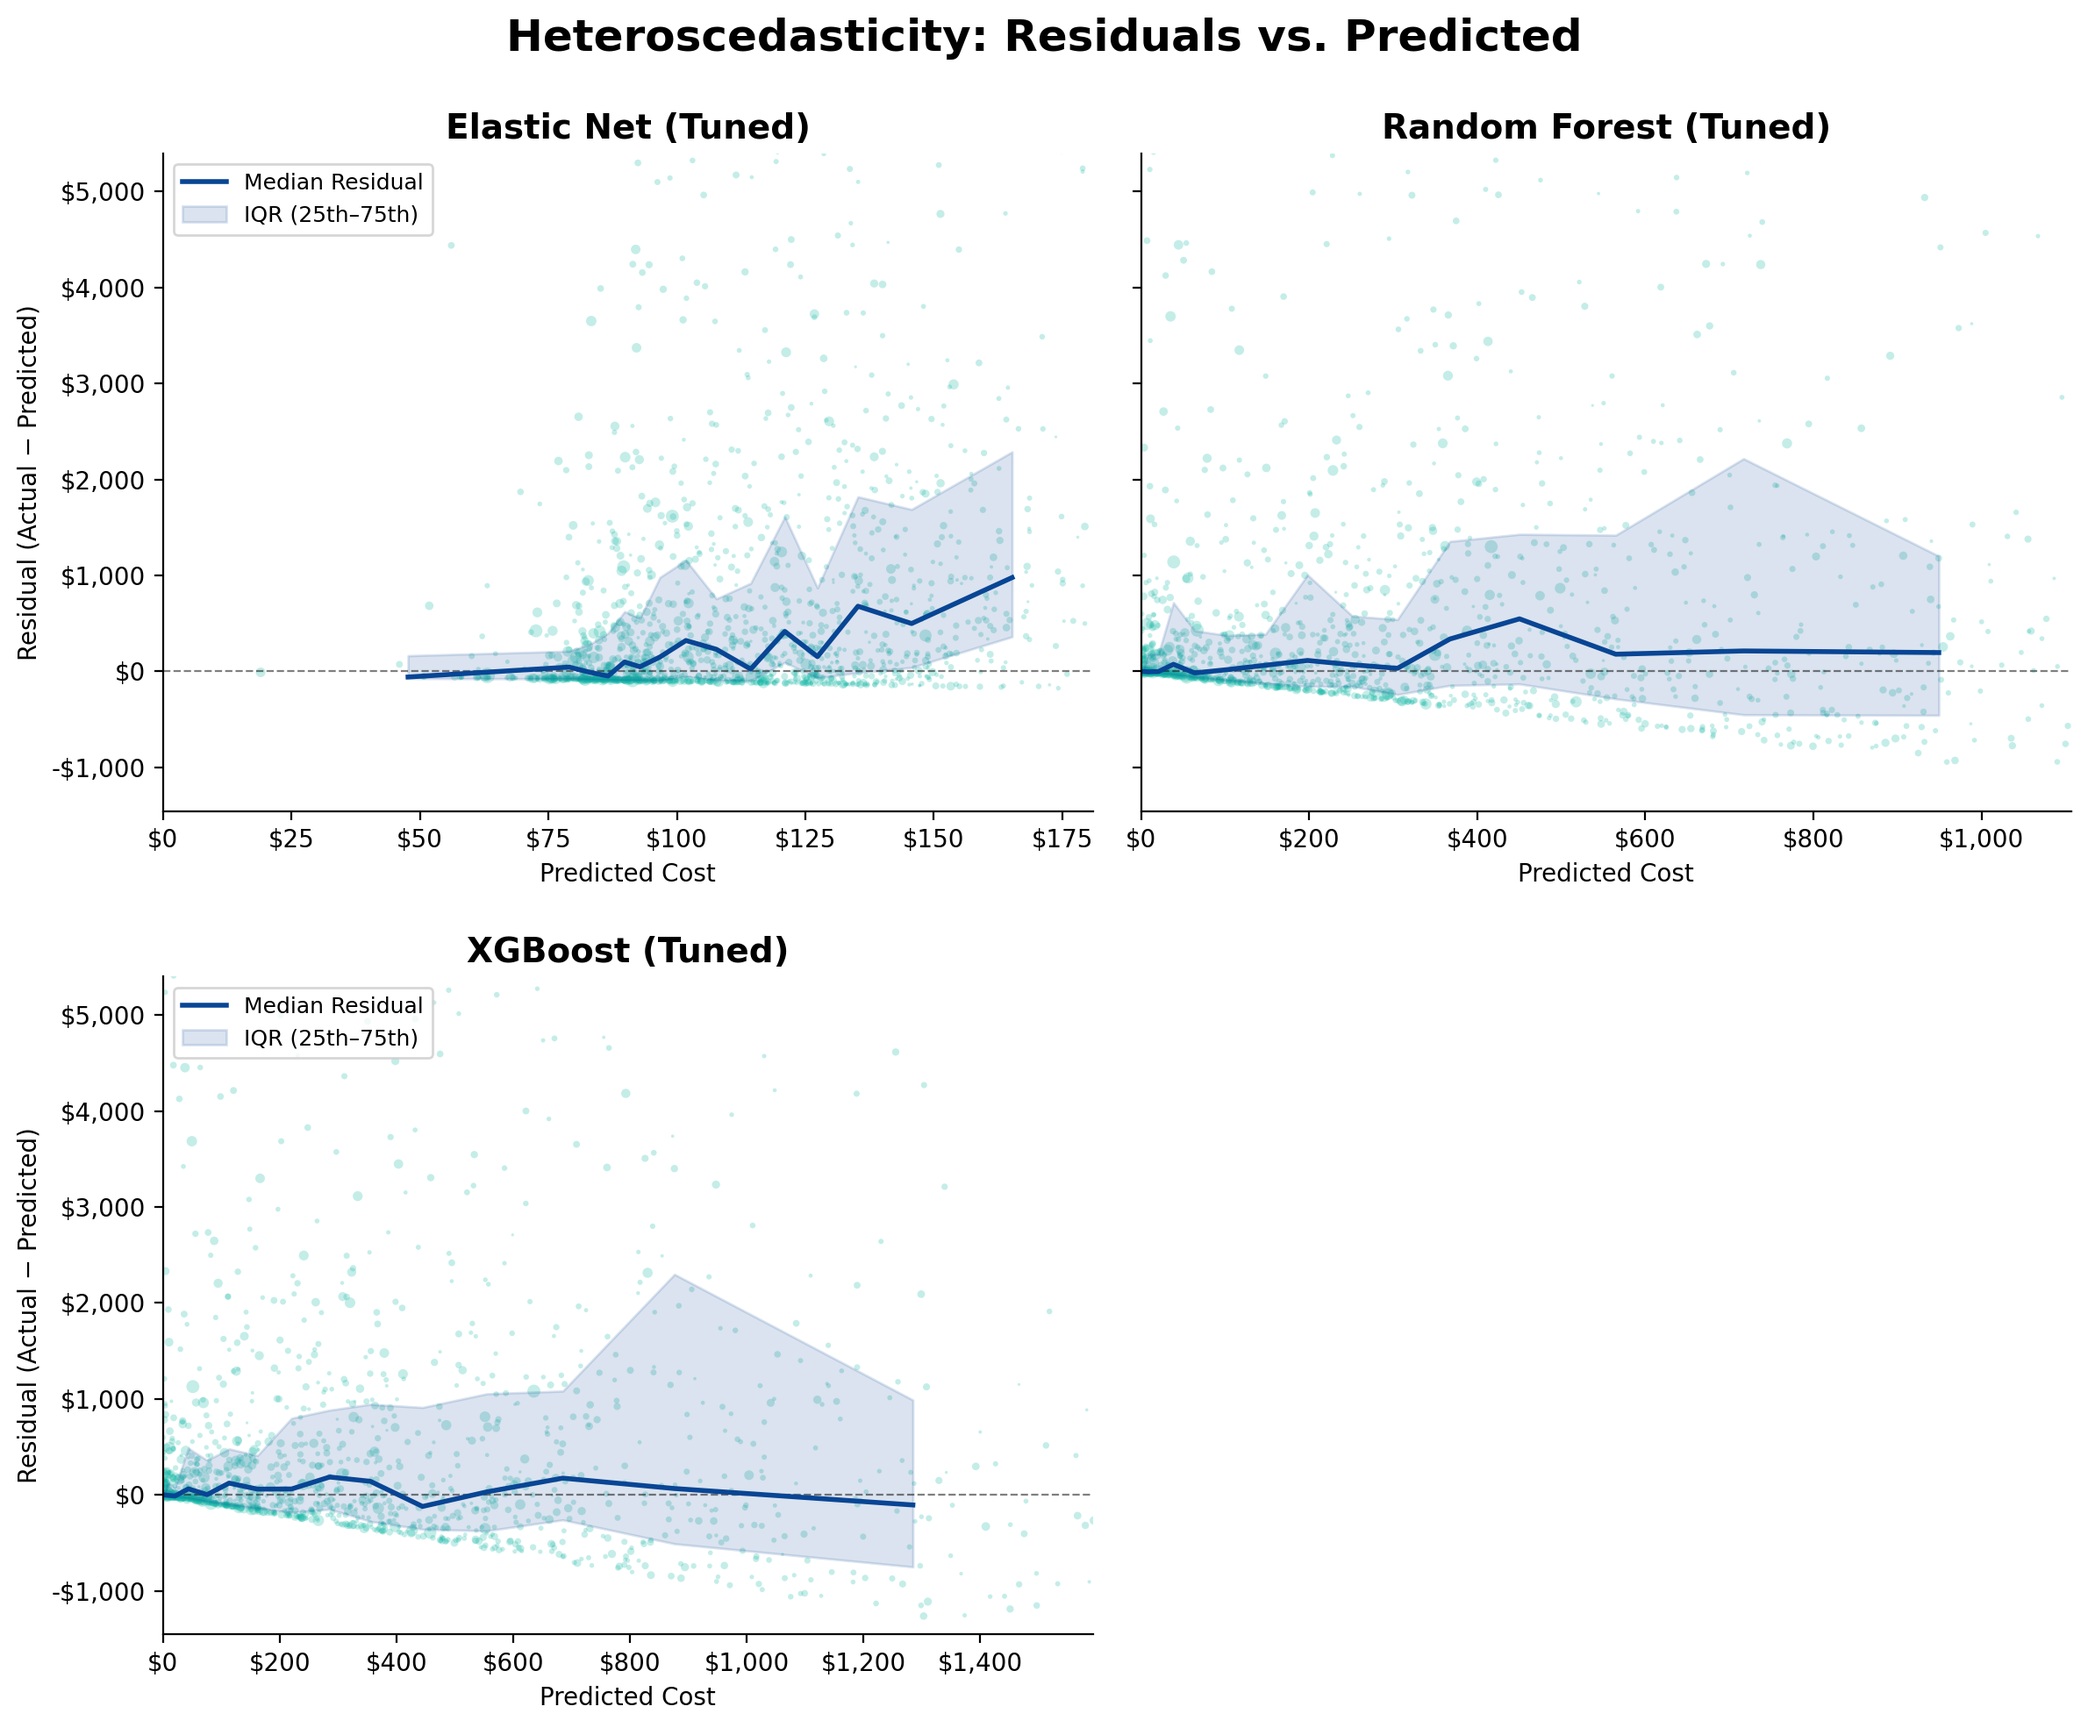
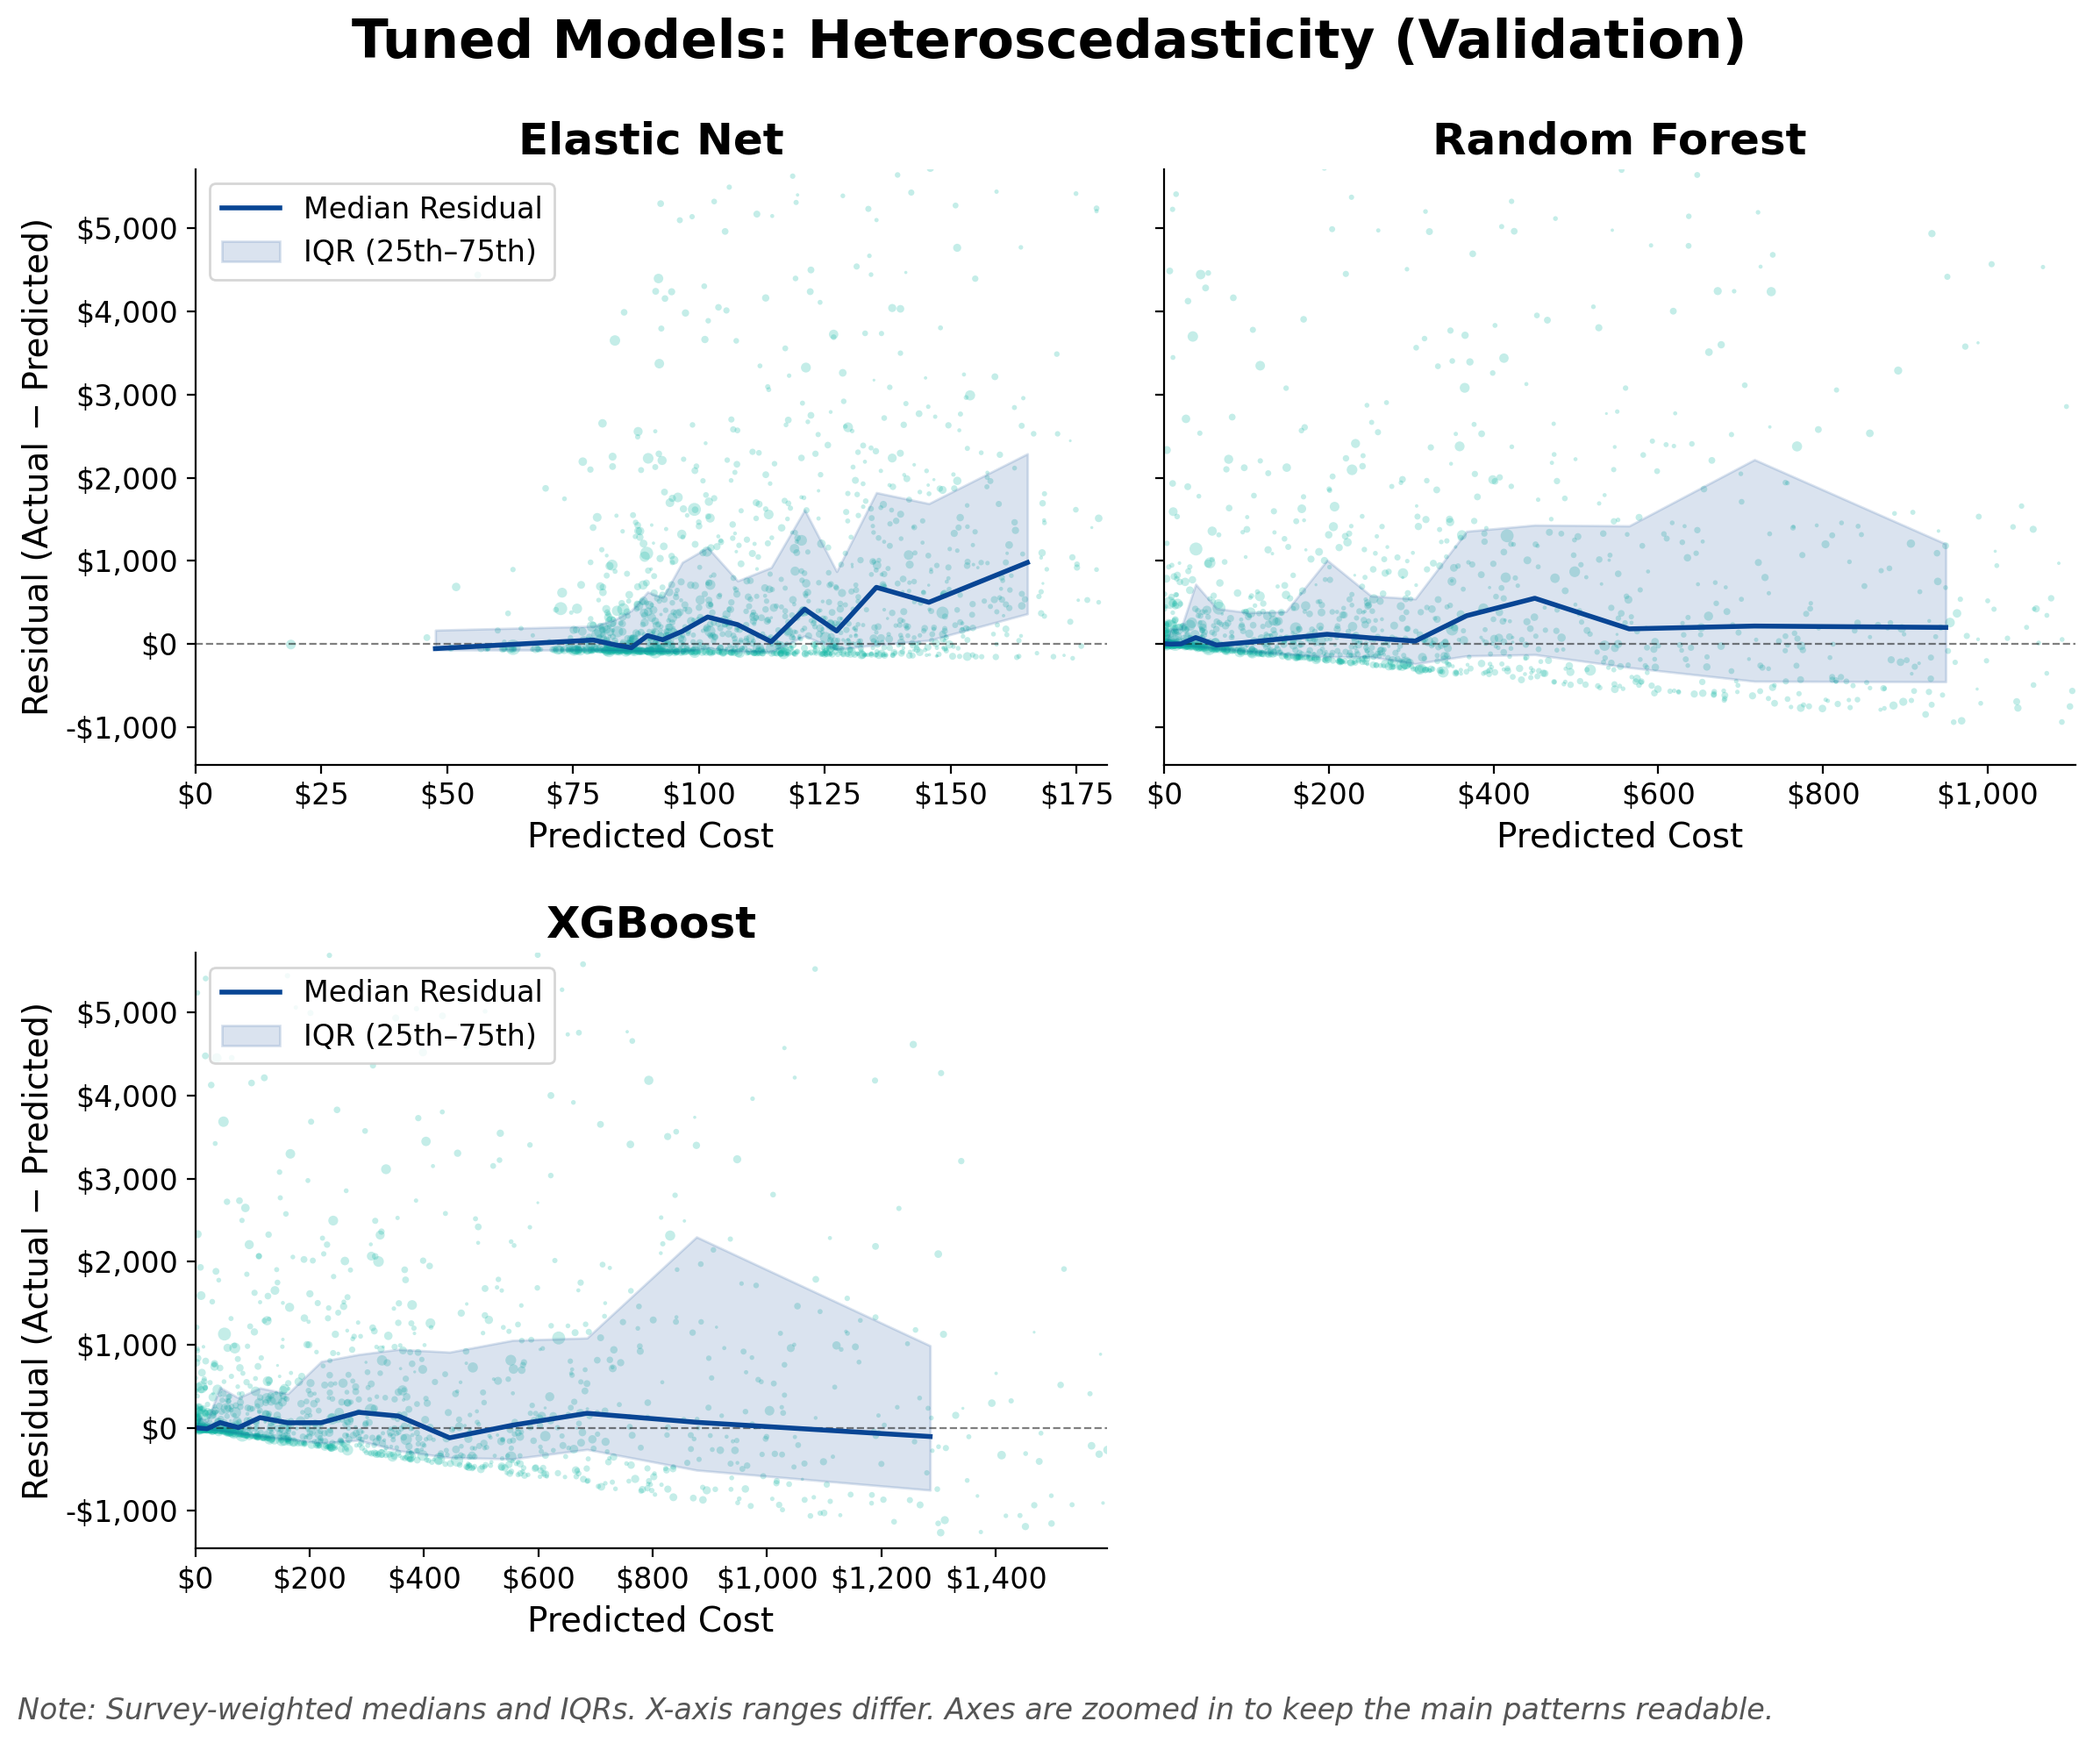
fix(eval): improve heteroscedasticity plot readability
Set shared y-axis limits using all three models.
Improve readability with larger text, clearer titles, and a plot note.

diff --git a/notebooks/2_modeling.py b/notebooks/2_modeling.py
@@ -867,6 +867,7 @@ def plot_residuals_vs_predicted(y_true, predictions_dict, weights, n_bins=15, n_
     
     fig, axes = plt.subplots(n_rows, n_cols, figsize=(6 * n_cols, 5 * n_rows), sharey=True, squeeze=False)
     axes_flat = axes.flatten()
+    residual_limits = []
 
     for i, (model_key, y_pred) in enumerate(predictions_dict.items()):
         ax = axes_flat[i]
@@ -920,8 +921,9 @@ def plot_residuals_vs_predicted(y_true, predictions_dict, weights, n_bins=15, n_
         ax.fill_between(bin_centers, bin_q25, bin_q75, alpha=0.15, color=POP_COLOR, label="IQR (25th–75th)")
         
         # Formatting
-        ax.set_title(model_label, fontsize=14, fontweight="bold")
-        ax.set_xlabel("Predicted Cost")
+        ax.set_title(model_label.removesuffix(" (Tuned)"), fontsize=18, fontweight="bold")
+        ax.set_xlabel("Predicted Cost", fontsize=14)
+        ax.tick_params(axis="both", labelsize=12)
         
         # Predictions and residuals axis limits for "zoomed-in" view (ignoring extreme outliers)
         pred_max = weighted_quantile(y_pred, w, 0.99)
@@ -929,7 +931,7 @@ def plot_residuals_vs_predicted(y_true, predictions_dict, weights, n_bins=15, n_
         res_min = weighted_quantile(residuals, w, 0.01)
 
         ax.set_xlim(0, pred_max * 1.01)
-        ax.set_ylim(res_min * 1.5, res_max * 1.3)
+        residual_limits.append((res_min * 1.5, res_max * 1.3))
         
         # Format ticks: -$500 instead of $-500
         currency_fmt = plt.FuncFormatter(lambda x, _: f"{'-' if x < 0 else ''}${abs(x):,.0f}")
@@ -937,18 +939,30 @@ def plot_residuals_vs_predicted(y_true, predictions_dict, weights, n_bins=15, n_
         
         # Only show y-label on the first column of each row
         if i % n_cols == 0:
-            ax.set_ylabel("Residual (Actual − Predicted)")
+            ax.set_ylabel("Residual (Actual − Predicted)", fontsize=14)
             ax.yaxis.set_major_formatter(currency_fmt)
-            ax.legend(loc="upper left", fontsize=9, frameon=True)
+            ax.legend(loc="upper left", fontsize=12, frameon=True)
             
         sns.despine(ax=ax)
     
+    # Use all models to set the common residual range, independent of plotting order.
+    axes_flat[0].set_ylim(
+        min(lower for lower, _ in residual_limits),
+        max(upper for _, upper in residual_limits)
+    )
+
     # Remove empty subplots if n_models < n_rows * n_cols
     for j in range(i + 1, n_rows * n_cols):
         fig.delaxes(axes_flat[j])
     
-    fig.suptitle("Heteroscedasticity: Residuals vs. Predicted", fontsize=18, fontweight="bold")
-    plt.tight_layout(rect=[0, 0, 1, 0.98], h_pad=2)
+    fig.suptitle("Tuned Models: Heteroscedasticity (Validation)", fontsize=22, fontweight="bold")
+    fig.text(
+        0.01, 0.01,
+        "Note: Survey-weighted medians and IQRs. X-axis ranges differ. "
+        "Axes are zoomed in to keep the main patterns readable.",
+        ha="left", fontsize=12, style="italic", color="#555555"
+    )
+    plt.tight_layout(rect=[0, 0.04, 1, 0.98], h_pad=2)
     
     if save_to_file:
         plt.savefig(save_to_file, bbox_inches="tight", dpi=200)

diff --git a/docs/slides/storyboard.md b/docs/slides/storyboard.md
@@ -1085,14 +1085,16 @@ alongside sampling and penalties to control overfitting.
 **Question:** What did the residual analysis reveal about the tuned models?
 
 **Visual:** Use the full [tuned-model residual figure](../../figures/evaluation/tuned_models_validation_heteroscedasticity.png)
-with all three subplots, fitted to the slide. Keep its existing title and add
-only the slide number and a small “Back” link to model selection in the left margin.
+with all three subplots, fitted to the slide. Its title identifies the tuned
+models and validation data. Add only the slide number and a small “Back” link
+to model selection in the left margin.
 
 **Speaker notes — reference for questions**
 
-Residuals are actual costs minus predicted costs, so positive residuals mean
-underprediction. The line shows the survey-weighted median residual within
-prediction groups; the shaded band shows the middle 50% of residuals.
+The plots use validation data. Residuals are actual costs minus predicted
+costs, so positive residuals mean underprediction. The line shows the
+survey-weighted median residual within prediction groups; the shaded band
+shows the middle 50% of residuals.
 
 Elastic Net's predictions occupy a narrow range, with median underprediction
 increasing toward its higher predictions. Random Forest and XGBoost have
@@ -1100,9 +1102,10 @@ median residuals closer to zero across much of their prediction ranges, but
 the spread remains wide and varies across predicted cost levels. A point
 estimate does not communicate this variation.
 
-The horizontal scales differ between models. The axes are zoomed to show
-the main patterns and omit some extreme predictions and residuals; the
-visible axis limits are not the models' maximum predictions.
+The horizontal scales differ between models, while the residual scale is
+shared. Both axes are zoomed so extreme values do not compress the main
+patterns. Some extreme predictions and residuals fall outside the view;
+the visible axis limits are not the models' maximum predictions.
 
 **Transition:** Return to model selection or continue with questions.
 
